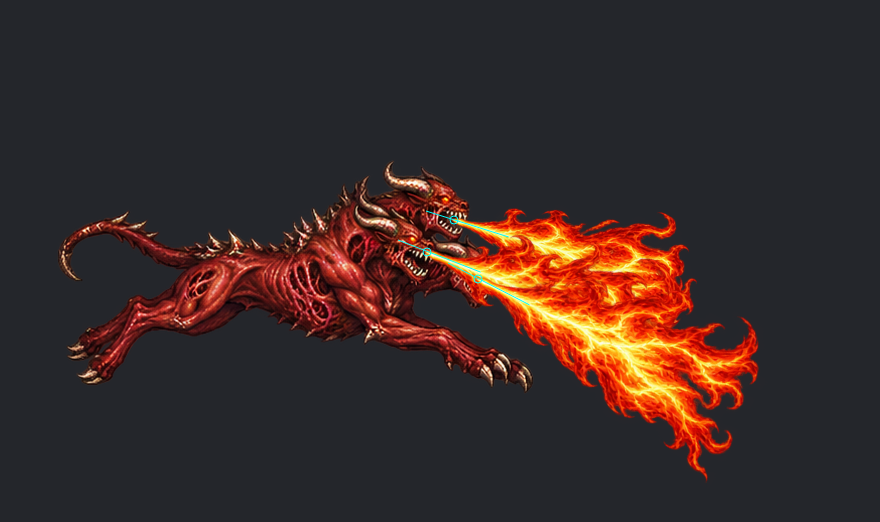
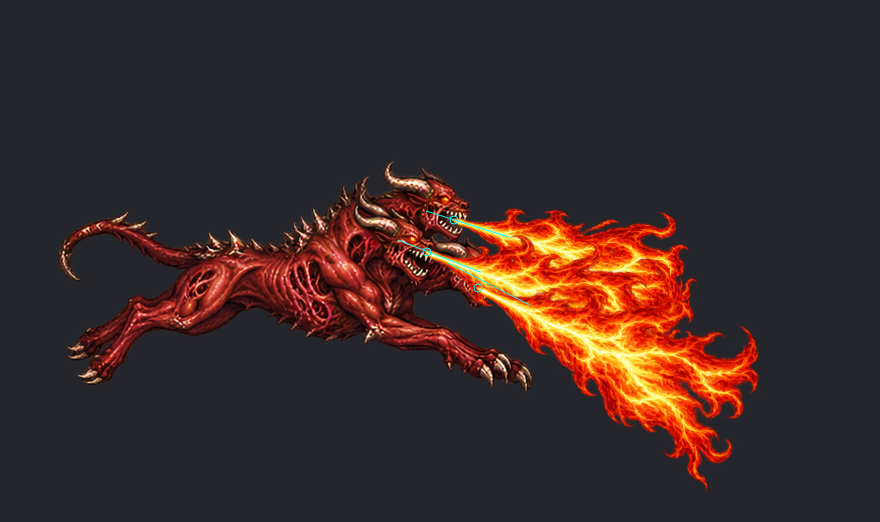
Lower leading-head flame emission from the nose into the open mouth

Changed region(s): [[0.5216, 0.5211, 0.8591, 0.9195]]

diff --git a/assets/hell-race/production/cerbero/run-fire-v1/README.md b/assets/hell-race/production/cerbero/run-fire-v1/README.md
@@ -1,6 +1,6 @@
 # Cerbero running with three flame jets
 
-Version 1.1.0 · 2026-10-31 (Europe/Rome). Candidate for user visual review.
+Version 1.2.0 · 2026-10-31 (Europe/Rome). Candidate for user visual review.
 
 This action reuses the approved stabilized running loop from main commit `4876d1a066f31453e844a8932cb12d94529db2ae`, at `../run-stabilized-v1/`. All eight original RGBA running files remain unchanged. They render at scale 1, offset (0,0), with the same 100 ms pose timing and 800 ms loop. Fixed side camera, facing right; the stabilized torso and all three heads remain those of the accepted run.
 
@@ -41,4 +41,8 @@ python3 assets/hell-race/production/cerbero/run-fire-v1/reports/render_fire_v1.p
 
 ## Direction correction requested by the user
 
-The first assembly used fixed upper/middle/lower spread angles. The user required each flame to emerge from its mouth in the direction of that head. Version 1.1.0 re-inspects all 24 mouth centers and records a separate muzzle-axis point pair for every head and every running pose. The renderer derives its angle from that pair instead of a fixed fan. Both the emission root and the +X direction of the flame are checked against the respective mouth and forward muzzle axis in all 48 rendered emissions. `reports/rejected-fixed-spread.json` preserves the cause, previous settings and diagnostic hash; the rejected preview remains a local artifact and is not the delivered loop.
+The first assembly used fixed upper/middle/lower spread angles. The user required each flame to emerge from its mouth in the direction of that head. Version 1.2.0 re-inspects all 24 mouth centers and records a separate muzzle-axis point pair for every head and every running pose. The renderer derives its angle from that pair instead of a fixed fan. Both the emission root and the +X direction of the flame are checked against the respective mouth and forward muzzle axis in all 48 rendered emissions. `reports/rejected-fixed-spread.json` preserves the cause, previous settings and diagnostic hash; the rejected preview remains a local artifact and is not the delivered loop.
+
+## Leading-head mouth correction
+
+The user identified the foremost (lower/rightmost) jet as originating at its nose. Version 1.2.0 lowers only that head’s mouth Y coordinate in each of the eight source poses, after inspection of enlarged mouth crops. Its horizontal anchor and muzzle direction remain the same; upper/middle head annotations and the original running sequence are unchanged. `reports/leading-mouth-correction.json` records the old and new coordinates. The browser capture, atlas, mathematical attachment checks and no-clipping checks were rerun.
